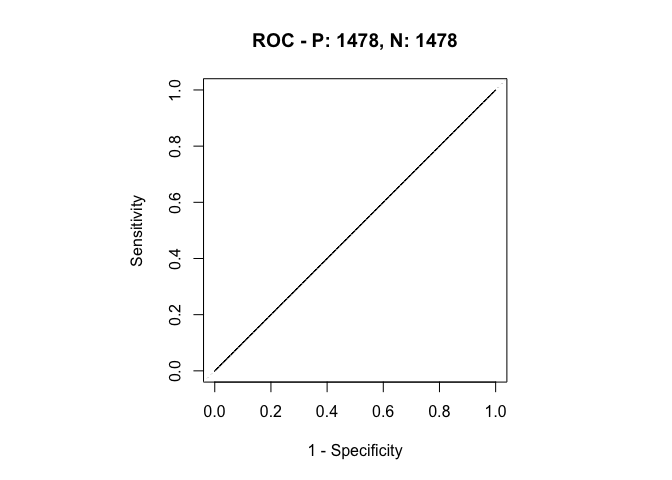
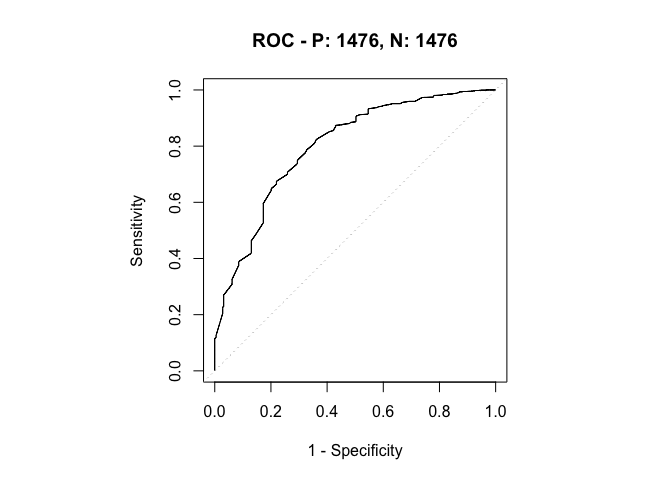
Add files via upload

diff --git a/Final_Project_Submission_.md b/Final_Project_Submission_.md
@@ -1,6 +1,6 @@
 All Airlines Sentiment
 ================
-2018-07-31
+2018-08-01
 
 ### Introduction
 
@@ -137,7 +137,7 @@ Creating a dataframe test\_unigram,test\_bigram, test\_trigram which includes tw
 
 ### Data Split and Mapping Values for training / test datset
 
-Dataset is split using createDataPartition from the caret package. The dataset is split into 70:30 ratio.Mapping the values for training dataset and creating dataframe for all the unigrams/bigrams/trigrams for positive/neutral/negative sentiment. SMOTE function is used to balance the dataset.
+Dataset is split using createDataPartition from the caret package. The dataset is split into 70:30 ratio.Mapping the values for training and testing dataset and creating dataframe for all the unigrams/bigrams/trigrams for positive/neutral/negative sentiment. SMOTE function is used to balance the training dataset.
 
 ``` r
 ## split training data into train batch and test batch
@@ -152,144 +152,6 @@ test_batch <- test_df2[-training_rows, ]
 train_control <- trainControl(method = "repeatedcv", repeats = 5,
                         summaryFunction = twoClassSummary,
                         classProbs = TRUE)
-
-
-#Converting the dependent variable into factor 
-train_batch$Is_Positive <- as.factor(train_batch$Is_Positive)
-train_batch$Is_Negative <- as.factor(train_batch$Is_Negative)
-train_batch$Is_Neutral <- as.factor(train_batch$Is_Neutral)
-
-train_unigram <- select(train_batch,tweetreason, timezone,
-                           sentiment_freq,Is_Positive,Is_Negative,Is_Neutral,
-                          starts_with("unigram"))
-
-
-train_unigram_pos <- SMOTE(Is_Positive ~ . -Is_Negative-Is_Neutral, 
-                           data =  train_unigram,perc.over=100,perc.under=200)
-train_unigram_neg <- SMOTE(Is_Negative ~ .-Is_Positive-Is_Neutral, 
-                           data = train_unigram, perc.over=100,perc.under=200)
-train_unigram_neu <- SMOTE(Is_Neutral ~ . -Is_Positive-Is_Negative,
-                           data = train_unigram,perc.over=100,perc.under=200)
-
-
-train_bigram <- select(train_batch,tweetreason, timezone,
-                           sentiment_freq,Is_Positive,Is_Negative,Is_Neutral,
-                          starts_with("bigram"))
-train_bigram_pos <- SMOTE(Is_Positive ~ . -Is_Negative-Is_Neutral,
-                          data =  train_bigram,perc.over=100,perc.under=200)
-train_bigram_neg <- SMOTE(Is_Negative ~ .-Is_Positive-Is_Neutral, 
-                         data =  train_bigram,perc.over=100,perc.under=200)
-train_bigram_neu <- SMOTE(Is_Neutral ~  . -Is_Positive-Is_Negative, 
-                         data =  train_bigram,perc.over=100,perc.under=200)
-
-
-
-train_trigram <-select(train_batch,tweetreason, timezone,
-                           sentiment_freq,Is_Positive,Is_Negative,Is_Neutral,
-                           starts_with("trigram"))
-
-train_trigram_pos <- SMOTE(Is_Positive ~ . -Is_Negative-Is_Neutral,
-                          data =  train_trigram,perc.over=100,perc.under=200)
-train_trigram_neg <- SMOTE(Is_Negative ~ .-Is_Positive-Is_Neutral, 
-                         data =  train_trigram,perc.over=100,perc.under=200)
-train_trigram_neu <- SMOTE(Is_Neutral ~  . -Is_Positive-Is_Negative, 
-                         data =  train_trigram,perc.over=100,perc.under=200)
-
-
-#Mapping unigrams
-train_unigram_pos <- train_unigram_pos %>% mutate(Is_Positive  = 
-                    ifelse(Is_Positive == "1", "Positive","NotPostitive"))
-
-train_unigram_neg <- train_unigram_neg %>% mutate(Is_Negative  = 
-                    ifelse(Is_Negative == "1", "Negative","NotNegative"))
-
-train_unigram_neu <- train_unigram_neu %>% mutate(Is_Neutral  = 
-                    ifelse(Is_Neutral == "1", "Neutral","NotNeutral"))
-
-#Mapping bigrams
-train_bigram_pos <- train_bigram_pos %>% mutate(Is_Positive  = 
-                    ifelse(Is_Positive == "1", "Positive","NotPostitive"))
-
-train_bigram_neg <- train_bigram_neg %>% mutate(Is_Negative  = 
-                    ifelse(Is_Negative == "1", "Negative","NotNegative"))
-
-train_bigram_neu <- train_bigram_neu %>% mutate(Is_Neutral  = 
-                    ifelse(Is_Neutral == "1", "Neutral","NotNeutral"))
-
-#Mapping trigrams
-train_trigram_pos <- train_trigram_pos %>% mutate(Is_Positive  = 
-                    ifelse(Is_Positive == "1", "Positive","NotPostitive"))
-
-train_trigram_neg <- train_trigram_neg %>% mutate(Is_Negative  = 
-                    ifelse(Is_Negative == "1", "Negative","NotNegative"))
-
-train_trigram_neu <- train_trigram_neu %>% mutate(Is_Neutral  = 
-                    ifelse(Is_Neutral == "1", "Neutral","NotNeutral"))
-```
-
-### Mapping Values for test dataset
-
-Mapping the values for test dataset and creating dataframe for all the unigrams/bigrams/trigrams for positive/neutral/negative sentiment.
-
-``` r
-test_batch$Is_Positive <- as.factor(test_batch$Is_Positive)
-test_batch$Is_Negative <- as.factor(test_batch$Is_Negative)
-test_batch$Is_Neutral <- as.factor(test_batch$Is_Neutral)
-
-pred_unigram <- select(test_batch,tweetreason, timezone,
-                           sentiment_freq,Is_Positive,Is_Negative,Is_Neutral,
-                          starts_with("unigram"))
-pred_unigram_pos <- pred_unigram[-c(5,6)]
-pred_unigram_neg <- pred_unigram[-c(4,6)]
-pred_unigram_neu <- pred_unigram[-c(4,5)]
-
-pred_bigram <- select(test_batch,tweetreason, timezone,
-                           sentiment_freq,Is_Positive,Is_Negative,Is_Neutral,
-                          starts_with("bigram"))
-
-pred_bigram_pos <- pred_bigram[-c(5,6)]
-pred_bigram_neg <- pred_bigram[-c(4,6)]
-pred_bigram_neu <- pred_bigram[-c(4,5)]
-
-  
-pred_trigram <-select(test_batch,tweetreason, timezone,
-                           sentiment_freq,Is_Positive,Is_Negative,Is_Neutral,
-                           starts_with("trigram"))
-
-pred_trigram_pos <- pred_trigram[-c(5,6)]
-pred_trigram_neg <- pred_trigram[-c(4,6)]
-pred_trigram_neu <- pred_trigram[-c(4,5)]
-
-
-#Mapping unigrams
-pred_unigram_pos <- pred_unigram_pos %>% mutate(Is_Positive  = 
-                    ifelse(Is_Positive == "1", "Positive","NotPostitive"))
-
-pred_unigram_neg <- pred_unigram_neg %>% mutate(Is_Negative  = 
-                    ifelse(Is_Negative == "1", "Negative","NotNegative"))
-
-pred_unigram_neu <- pred_unigram_neu %>% mutate(Is_Neutral  = 
-                    ifelse(Is_Neutral == "1", "Neutral","NotNeutral"))
-
-#Mapping bigrams
-pred_bigram_pos <- pred_bigram_pos %>% mutate(Is_Positive  = 
-                    ifelse(Is_Positive == "1", "Positive","NotPostitive"))
-
-pred_bigram_neg <- pred_bigram_neg %>% mutate(Is_Negative  = 
-                    ifelse(Is_Negative == "1", "Negative","NotNegative"))
-
-pred_bigram_neu <- pred_bigram_neu %>% mutate(Is_Neutral  = 
-                    ifelse(Is_Neutral == "1", "Neutral","NotNeutral"))
-
-#Mapping trigrams
-pred_trigram_pos <- pred_trigram_pos %>% mutate(Is_Positive  = 
-                    ifelse(Is_Positive == "1", "Positive","NotPostitive"))
-
-pred_trigram_neg <- pred_trigram_neg %>% mutate(Is_Negative  = 
-                    ifelse(Is_Negative == "1", "Negative","NotNegative"))
-
-pred_trigram_neu <- pred_trigram_neu %>% mutate(Is_Neutral  = 
-                    ifelse(Is_Neutral == "1", "Neutral","NotNeutral"))
 ```
 
 ### Cross Validation and Bootstrapping for Logistics Regression for tweet reason
@@ -298,157 +160,71 @@ Sentiment variables are converted into factors for all the dataframe and cross v
 
 ### ROC curve for Logistic Regression
 
-ROC curves are plotted for the all the cross validated models to check the significance of tweetreason on sentiments for all the dataframe. P & N values describe the number of positives and negative in the model
+ROC curves are plotted for the all the cross validated models to check the significance of tweetreason on sentiments for all the dataframe. P & N values describe the number of positives and negative in the model. ROC curves with AUC more than 0.5 is displayed
 
     ## [1] "AUC of Unigram Positive"
 
-    ## [1] 0.7236629
+    ## [1] 0.7256763
 
 ![](Final_Project_Submission__files/figure-markdown_github/ROC%20curve%20for%20Logistic%20Regression-1.png)
 
-    ## [1] "AUC of Unigram Negative"
+    ## [1] "AUC of Bigram Positive"
 
-    ## [1] 0.3347937
+    ## [1] 0.7179339
 
 ![](Final_Project_Submission__files/figure-markdown_github/ROC%20curve%20for%20Logistic%20Regression-2.png)
 
-    ## [1] "AUC of Unigram Neutral"
+    ## [1] "AUC of Trigram Positive"
 
-    ## [1] 0.4158115
+    ## [1] 0.7178556
 
 ![](Final_Project_Submission__files/figure-markdown_github/ROC%20curve%20for%20Logistic%20Regression-3.png)
 
-    ## [1] "AUC of Bigram Positive"
-
-    ## [1] 0.7110709
-
-![](Final_Project_Submission__files/figure-markdown_github/ROC%20curve%20for%20Logistic%20Regression-4.png)
-
-    ## [1] "AUC of Bigram Negative"
-
-    ## [1] 0.3313562
-
-![](Final_Project_Submission__files/figure-markdown_github/ROC%20curve%20for%20Logistic%20Regression-5.png)
-
-    ## [1] "AUC of Bigram Neutral"
-
-    ## [1] 0.4075235
-
-![](Final_Project_Submission__files/figure-markdown_github/ROC%20curve%20for%20Logistic%20Regression-6.png)
-
-    ## [1] "AUC of Trigram Positive"
-
-    ## [1] 0.7110748
-
-![](Final_Project_Submission__files/figure-markdown_github/ROC%20curve%20for%20Logistic%20Regression-7.png)
-
-    ## [1] "AUC of Trigram Negative"
-
-    ## [1] 0.3326861
-
-![](Final_Project_Submission__files/figure-markdown_github/ROC%20curve%20for%20Logistic%20Regression-8.png)
-
-    ## [1] "AUC of Trigram Neutral"
-
-    ## [1] 0.4460098
-
-![](Final_Project_Submission__files/figure-markdown_github/ROC%20curve%20for%20Logistic%20Regression-9.png)
-
 ### Cross Validation and ROC curves for Naive Bayes for entire training dataset
 
-cross validation is performed using Naive Bayes with entire training dataset on all the sentiment for unigram/bigram/trigram. timezone is excluded as it had zero variances. ROC curves are plotted for executed cross validated models to check the significance of entire variables on sentiments for unigram/bigram/trigram. P & N values describe the number of positives and negative in the model
+cross validation is performed using Naive Bayes with entire training dataset on all the sentiment for unigram/bigram/trigram. timezone is excluded as it had zero variances. ROC curves are plotted for executed cross validated models to check the significance of entire variables on sentiments for unigram/bigram/trigram. P & N values describe the number of positives and negative in the model. ROC curves with AUC more than 0.5 is displayed
 
-### ROC Curves for Entire training dataset models
+    ## [1] "AUC of Bigram Positive"
 
-ROC curves are plotted for executed cross validated models to check the significance of entire variables on sentiments for unigram/bigram/trigram. P & N values describe the number of positives and negative in the model
-
-    ## [1] "AUC of Unigram Positive"
-
-    ## [1] 0.5
+    ## [1] 0.7991723
 
 ![](Final_Project_Submission__files/figure-markdown_github/ROC%20curves%20for%20entire%20training%20dataset-1.png)
 
-    ## [1] "AUC PR of Unigram Positive"
+    ## [1] "AUC PR of Bigram Positive"
 
-    ## [1] 0.5
+    ## [1] 0.791645
 
 ![](Final_Project_Submission__files/figure-markdown_github/ROC%20curves%20for%20entire%20training%20dataset-2.png)
 
-    ## [1] "AUC of Bigram Positive"
+    ## [1] "AUC of Trigam Positive"
 
-    ## [1] 0.8018035
+    ## [1] 0.770367
 
 ![](Final_Project_Submission__files/figure-markdown_github/ROC%20curves%20for%20entire%20training%20dataset-3.png)
 
-    ## [1] "AUC PR of Bigram Positive"
+    ## [1] "AUC PR of Trigram Positive"
 
-    ## [1] 0.8009154
+    ## [1] 0.7120925
 
 ![](Final_Project_Submission__files/figure-markdown_github/ROC%20curves%20for%20entire%20training%20dataset-4.png)
 
-    ## [1] "AUC of Bigram Neutral"
-
-    ## [1] 0.1148851
-
-![](Final_Project_Submission__files/figure-markdown_github/ROC%20curves%20for%20entire%20training%20dataset-5.png)
-
-    ## [1] "AUC PR of Bigram Neutral"
-
-    ## [1] 0.3218875
-
-![](Final_Project_Submission__files/figure-markdown_github/ROC%20curves%20for%20entire%20training%20dataset-6.png)
-
-    ## [1] "AUC of Trigam Positive"
-
-    ## [1] 0.763148
-
-![](Final_Project_Submission__files/figure-markdown_github/ROC%20curves%20for%20entire%20training%20dataset-7.png)
-
-    ## [1] "AUC PR of Trigram Positive"
-
-    ## [1] 0.7037205
-
-![](Final_Project_Submission__files/figure-markdown_github/ROC%20curves%20for%20entire%20training%20dataset-8.png) The model with the best performance was a bigram positive and trigram positive model for the entire training dataset
+The model with the best performance was a bigram positive and trigram positive model for the entire training dataset
 
 ### Cross Validation and ROC curves for Naive Bayes for entire testing dataset
 
-Cross validation is performed using Naive Bayes with entire test dataset on all the sentiment for unigram/bigram/trigram. timezone is excluded as it had zero variances.ROC curves are plotted for executed cross validated models to check the significance of entire variables on sentiments for unigram/bigram/trigram.P & N values describe the number of positives and negative in the model
+Cross validation is performed using Naive Bayes with entire test dataset on all the sentiment for unigram/bigram/trigram. timezone is excluded as it had zero variances.ROC curves are plotted for executed cross validated models to check the significance of entire variables on sentiments for unigram/bigram/trigram.P & N values describe the number of positives and negative in the model.ROC curves with AUC more than 0.5 is displayed
 
     ## [1] "AUC of Bigram Positive"
 
-    ## [1] 0.7336733
+    ## [1] 0.7443438
 
 ![](Final_Project_Submission__files/figure-markdown_github/ROC%20Curve%20for%20test%20dataset-1.png)
 
     ## [1] "AUC PR of Bigram Positive"
 
-    ## [1] 0.1176663
+    ## [1] 0.1282897
 
 ![](Final_Project_Submission__files/figure-markdown_github/ROC%20Curve%20for%20test%20dataset-2.png)
-
-    ## [1] "AUC of Bigram Negative"
-
-    ## [1] 0.1990878
-
-![](Final_Project_Submission__files/figure-markdown_github/ROC%20Curve%20for%20test%20dataset-3.png)
-
-    ## [1] "AUC PR of Bigram Negative"
-
-    ## [1] 0.6001631
-
-![](Final_Project_Submission__files/figure-markdown_github/ROC%20Curve%20for%20test%20dataset-4.png)
-
-    ## [1] "AUC of Trigram Negative"
-
-    ## [1] 0.2218053
-
-![](Final_Project_Submission__files/figure-markdown_github/ROC%20Curve%20for%20test%20dataset-5.png)
-
-    ## [1] "AUC PR of Trigram Negative"
-
-    ## [1] 0.6144623
-
-![](Final_Project_Submission__files/figure-markdown_github/ROC%20Curve%20for%20test%20dataset-6.png)
 
 The bigram positive model was the best performing model on the entire testing dataset.
 
@@ -465,3 +241,5 @@ The bigram positive model was the best performing model on the entire testing da
 2.Sentiment analysis can be further expalined to classify the sentiment of the tweers into more categories to provide deeper understanding of customer sentiments.
 
 3.Stemming could have provided better insights by reducing the repetition of terms
+
+Note : The sentiment analysis for individual airlines and code can be found \[here\] (<https://github.com/prashijp/Capstone-Project>)
